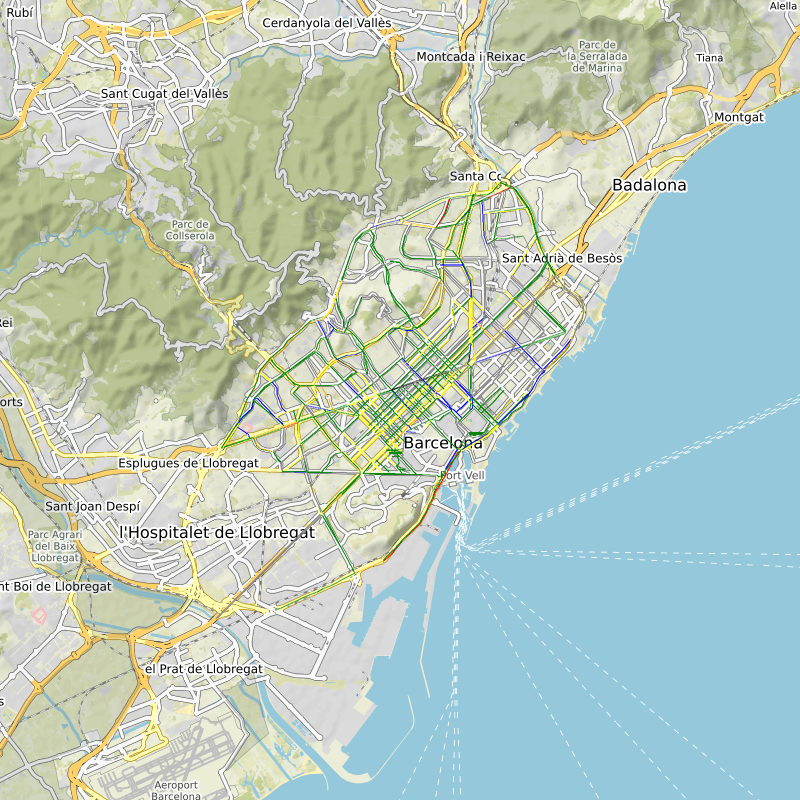
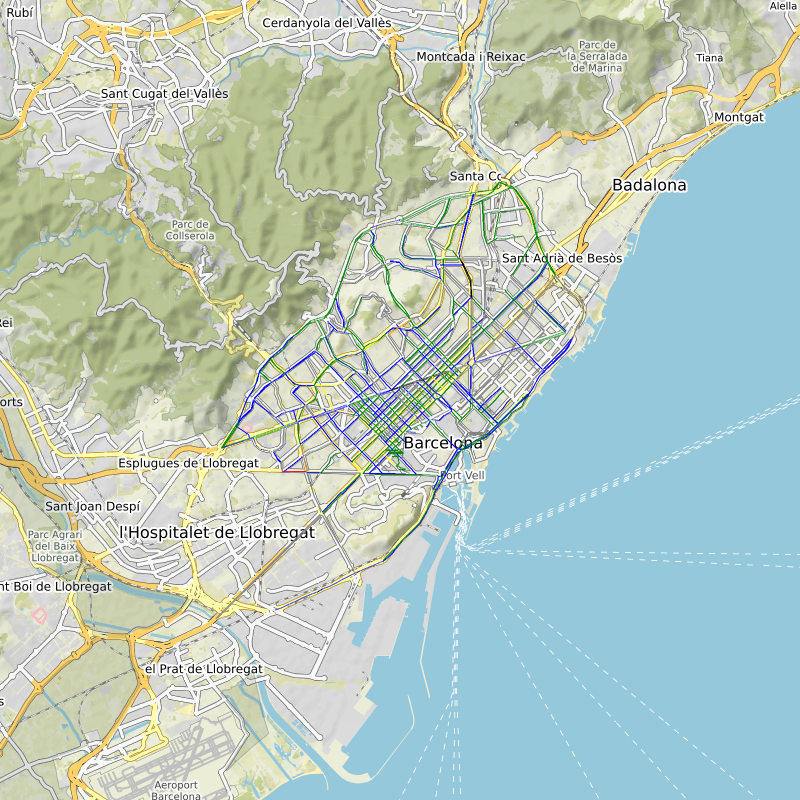
En na sta, falta quadrar els dos moduls

diff --git a/i_go1.py b/i_go1.py
@@ -230,7 +230,6 @@ def bo_build_i_graph(graph, highways, congestions, ARBITRARY, INFINIT): #intento
                 #alerta aquí abans teníem
                 node1= get_nearest_node(graph, highway.coordinates[i-1])
                 node2= get_nearest_node(graph, highway.coordinates[i])
-
                 try:
                     path= ox.shortest_path(graph, node1, node2, weight='length')
                     #print(path)
@@ -290,17 +289,16 @@ def checking_highways_congestions (highways, congestions):
 #crec que el geocode no funciona tan màgicament amb el nom del lloc directament o almenys salta un error per aquest cas
 #efectivament no chuta, la funcio aquesta  si que ho hauria de fer pero no va, l'he treta d'aqui https://geopandas.org/docs/user_guide/data_structures.html
 def get_shortest_path_with_itime(igraph, origin, destination):
-    origin+=", Barcelona"
-    destination+= ", Barcelona"
-    print(origin)
-    print(destination)
-    ori = ox.geocode(origin)
+    if type (origin) == 'str':
+        origin += ", Barcelona"
+        ori = ox.geocode(origin)
+        print ("passo per aqui")
+    else:
+        ori = [(origin[0]), (origin[1])]
+    destination += ", Barcelona"
     dest = ox.geocode(destination)
-    print(ori)
-    print(dest)
     node_ori= get_nearest_node(igraph, ori, False)
     node_dest= get_nearest_node(igraph, dest, False)
-    print(node_ori, node_dest)
     return ox.shortest_path(igraph, node_ori, node_dest, weight='itime')
 
 def plot_path(igraph, ipath, SIZE):
@@ -309,45 +307,24 @@ def plot_path(igraph, ipath, SIZE):
     for i in range (len(ipath)):
         iplot.append ((igraph.nodes[ipath[i]]['x'], igraph.nodes[ipath[i]]['y']))
     m = StaticMap (SIZE, SIZE) #test values
-    line = Line(iplot, 'red', 15)
+    line = Line(iplot, 'red', 2)
     m.add_line(line)
-    print (ipath)
-    print (iplot)
     #saving the image
     image = m.render()
     image.save("your_path.png")
 
-def test():
-    # loads/downloads graph (using cache) and plot it on the screen
-    if not exists_graph(GRAPH_FILENAME) or not exists_graph(PLOT_GRAPH_FILENAME):
-        graph, di_graph = download_graph(PLACE) #downloads both graph and digraph formats
-        save_graph(di_graph, GRAPH_FILENAME)
-        save_graph(graph, PLOT_GRAPH_FILENAME)
-    else:
-        print("graph already saved, loading...")
-        di_graph = load_graph(GRAPH_FILENAME)
-        graph= load_graph(PLOT_GRAPH_FILENAME) #for printing issues
 
-    #plot_graph(graph) #prints the graph
-
-    #downloads and prints highways
-    highways, n = download_highways(HIGHWAYS_URL) #n is the biggest way_id of the highways
-    plot_highways(highways, 'highways.png', SIZE)
-
-    #downloads and prints congestions
-    congestions = download_congestions(CONGESTIONS_URL, n)
-    plot_congestions(highways, congestions, 'congestions.png', SIZE)
-
-    #checking_highways_congestions (highways, congestions)
-    i_graph= bo_build_i_graph(di_graph, highways,congestions, ARBITRARY, INFINIT)
-
+def make_path(origin, destination, i_graph):
     # get 'intelligent path' between two addresses and plot it into a PNG image
-    ipath = get_shortest_path_with_itime(i_graph, "Taquígraf Martí, 10", "Campus Nord UPC")
+    if origin[2] == ' ':
+        ori_coord = [(origin[0]), (origin[1])]
+        ipath = get_shortest_path_with_itime(i_graph, ori_coord, destination [2])
+    else:
+        ipath = get_shortest_path_with_itime(i_graph, origin[2], destination [2])
+
     plot_path(i_graph, ipath, SIZE)
 
-#testing
-
-def show_path(origin, destination):
+def charge_graph():
     if not exists_graph(GRAPH_FILENAME) or not exists_graph(PLOT_GRAPH_FILENAME):
         graph, di_graph = download_graph(PLACE) #downloads both graph and digraph formats
         save_graph(di_graph, GRAPH_FILENAME)
@@ -364,7 +341,4 @@ def show_path(origin, destination):
     #checking_highways_congestions (highways, congestions)
     i_graph= bo_build_i_graph(di_graph, highways,congestions, ARBITRARY, INFINIT)
 
-    # get 'intelligent path' between two addresses and plot it into a PNG image
-    ipath = get_shortest_path_with_itime(i_graph, origin[2], destination [2])
-    
-    plot_path(i_graph, ipath, SIZE)
+    return i_graph

diff --git a/bot1.py b/bot1.py
@@ -14,6 +14,8 @@ SIZE = 800
 INFINITY = 999999
 origin = [INFINITY, INFINITY, ' ']
 
+graph = i_go.charge_graph()
+
 def pos(update, context):
     try:
         origin[0] = float (context.args [1])
@@ -81,7 +83,7 @@ def go (update, context):
         destination[1] = coord [0]
         destination[2] = street
         fitxer = "your_path.png"
-        i_go.show_path(origin, destination)
+        i_go.make_path(origin, destination, graph)
         context.bot.send_photo(chat_id=update.effective_chat.id, photo=open(fitxer, 'rb'))
         os.remove(fitxer)
 
